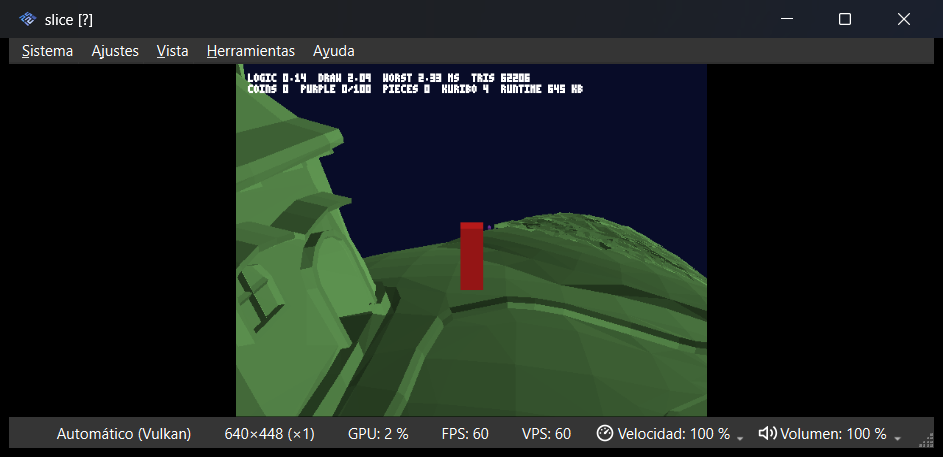
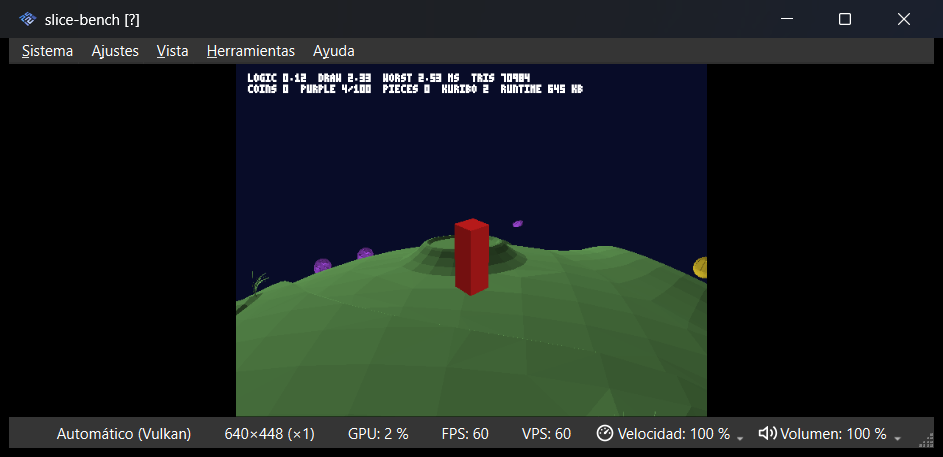
Phase 1: frame time over a scripted path in PCSX2 (bench build), gate GO (tasks 5.2, 6.1)

diff --git a/engine/src/main.c b/engine/src/main.c
@@ -14,13 +14,6 @@ extern const u8 slice_blob[];
 
 static Scene scene;
 
-/* EE COUNT register: one tick per CPU cycle (294.912 MHz). */
-static inline u32 cycles(void)
-{
-    u32 c;
-    __asm__ volatile("mfc0 %0, $9" : "=r"(c));
-    return c;
-}
 #define EE_MHZ 294.912f
 
 static void load_modules(void)
@@ -50,10 +43,16 @@ int main(void)
     game_init(&scene, slice_blob);
     mem_report();
 
-    u32 t_logic = 0, t_draw = 0, worst = 0, frame = 0;
+    u32 t_logic = 0, t_draw = 0, t_gs = 0, worst = 0, frame = 0;
+#ifdef BENCH
+    /* frames 60..1859 of the scripted path: sums and worsts of logic (minus KCL), KCL, draw, GS finish, total */
+    u64 sum[5] = {0};
+    u32 top[5] = {0};
+#endif
     char line[128], a[24], b[24], c[24];
     for (;;) {
         u32 t0 = cycles();
+        game_kcl_cycles = 0;
         pad_update();
         game_update();
         u32 t1 = cycles();
@@ -78,7 +77,24 @@ int main(void)
         if ((frame++ & 255) == 0)
             printf("frame %u: logic %u us, draw %u us, worst %u us, tris %u\n", frame, (u32)(t_logic / EE_MHZ),
                    (u32)(t_draw / EE_MHZ), (u32)(worst / EE_MHZ), render_tris_drawn());
-        render_end();
+        t_gs = render_end();
+#ifdef BENCH
+        if (frame > 60 && frame <= 1860) {
+            u32 v[5] = {t_logic - game_kcl_cycles, game_kcl_cycles, t_draw, t_gs, t_logic + t_draw + t_gs};
+            for (int i = 0; i < 5; i++) {
+                sum[i] += v[i];
+                if (v[i] > top[i]) top[i] = v[i];
+            }
+        }
+        if (frame == 1861) {
+            static const char *nm[5] = {"logic", "kcl", "draw", "gs", "total"};
+            for (int i = 0; i < 5; i++)
+                printf("bench %-5s avg %u us worst %u us\n", nm[i], (u32)(sum[i] / 1800 / EE_MHZ), (u32)(top[i] / EE_MHZ));
+            game_debug(line, sizeof line);
+            printf("bench end: %s coins %d purple %d pieces %d kuribo %d\n", line, game_coins(), game_purple(),
+                   game_starpieces(), game_kuribo_alive());
+        }
+#endif
     }
     return 0;
 }

diff --git a/engine/src/pad.c b/engine/src/pad.c
@@ -39,6 +39,18 @@ void pad_update(void)
         ly = -axis(st.ljoy_v);
     }
     pressed = held & ~prev;
+#ifdef BENCH
+    /* fixed path, 30 s: forward with a jump every 1.5 s, a right-hand circle with spins, forward-left */
+    static u32 f;
+    u32 t = f++;
+    prev = held;
+    held = 0;
+    lx = t < 600 ? 0.0f : t < 1200 ? 1.0f : -0.7f;
+    ly = t < 600 ? 1.0f : t < 1200 ? 0.5f : 0.7f;
+    if (t % 90 == 45) held |= PAD_CROSS;
+    if (t >= 600 && t < 1200 && t % 120 == 0) held |= PAD_SQUARE;
+    pressed = held & ~prev;
+#endif
 }
 
 int pad_held(u32 m) { return (held & m) != 0; }

diff --git a/engine/src/render.c b/engine/src/render.c
@@ -258,8 +258,11 @@ void render_text(float x, float y, const char *s)
     }
 }
 
-void render_end(void)
+#include "game.h"
+
+u32 render_end(void)
 {
+    u32 c0 = cycles();
     flush_vif();
     dma_channel_wait(DMA_CHANNEL_VIF1, 0);
     if (text_open) {
@@ -269,9 +272,11 @@ void render_end(void)
         draw_wait_finish();
         text_open = 0;
     }
+    u32 busy = cycles() - c0;
     graph_wait_vsync();
     graph_set_framebuffer_filtered(frame[back].address, SCREEN_W, GS_PSM_32, 0, 0);
     back ^= 1;
+    return busy;
 }
 
 u32 render_tris_drawn(void) { return tris_drawn; }

diff --git a/engine/src/render.h b/engine/src/render.h
@@ -10,7 +10,8 @@ void render_begin(const float eye[3], const float target[3], const float up[3]);
 /* Draw a model with world matrix `world` (column-major 4x4), flat-shaded with a base colour. */
 void render_model(const Model *md, const float world[16], u8 r, u8 g, u8 b);
 void render_text(float x, float y, const char *s);
-void render_end(void);
+/* Finish the frame (VIF chain, HUD, wait for the GS) and flip; returns EE cycles spent before the vsync wait. */
+u32 render_end(void);
 u32 render_tris_drawn(void);
 
 void mat_identity(float m[16]);

diff --git a/engine/src/game.c b/engine/src/game.c
@@ -128,8 +128,11 @@ static V3 up_at(V3 p, V3 prev)
 }
 
 /* Push a sphere out of the KCL; returns 1 if it rests on ground (a face within 60 degrees of up). */
+unsigned int game_kcl_cycles;
+
 static int collide(V3 *center, V3 up, float radius)
 {
+    unsigned int c0 = cycles();
     int ground = 0;
     for (int it = 0; it < 3; it++) {
         KclHit hits[16];
@@ -156,6 +159,7 @@ static int collide(V3 *center, V3 up, float radius)
                 ground = 1;
         }
     }
+    game_kcl_cycles += cycles() - c0;
     return ground;
 }
 

diff --git a/engine/src/game.h b/engine/src/game.h
@@ -13,5 +13,13 @@ int game_purple_total(void);
 int game_starpieces(void);
 int game_kuribo_alive(void);
 void game_debug(char *out, int n);
+/* EE cycles spent in KCL queries since the last reset (frame-time split) */
+extern unsigned int game_kcl_cycles;
+static inline unsigned int cycles(void)
+{
+    unsigned int c;
+    __asm__ volatile("mfc0 %0, $9" : "=r"(c));
+    return c;
+}
 
 #endif

diff --git a/docs/phase1-report.md b/docs/phase1-report.md
@@ -1,4 +1,4 @@
-# Phase 1 report (in progress)
+# Phase 1 report
 
 ## Wii reference (tasks 1.1-1.2)
 
@@ -140,23 +140,42 @@ Console at boot (`mem_report`) and HUD every frame (`RUNTIME … KB`, live coins
 Per object: PurpleCoin 16 B vs 2 567 B, Kuribo 48 B vs 12 073 B, player 1.2 KB vs 297 KB, all far under the
 one-sixth targets of 1.2. The slice does much less per object (see "Differences from SMG"), so these are floors.
 
-## Gate (task 6.1) — provisional until 5.2
+## Frame time over a fixed path (task 5.2) — PCSX2, by the user's decision
+
+`engine/build.sh bench` builds `slice-bench.elf`: the pad is replaced by a 30 s script (`pad.c`, `#ifdef BENCH`):
+forward with a jump every 1.5 s for 10 s, a right-hand circle with a spin every 2 s for 10 s, forward-left for 10 s.
+Mario crosses to the far side of the planet (1317, −425, 1574 → −510, 290, −1982), collects 4 purple coins and
+stomps 2 Kuribo (`docs/renders/slice-bench.png`). Frames 61-1860, EE COUNT cycles:
+
+| Part | Average | Worst |
+|---|---|---|
+| Logic (minus KCL) | 0.04 ms | 0.05 ms |
+| Collision (KCL queries) | 0.08 ms | 0.22 ms |
+| Draw (EE builds the VIF chain) | 2.21 ms | 2.37 ms |
+| GS finish (VIF chain + HUD drained, `render_end` before vsync) | 2.77 ms | 3.01 ms |
+| **Total busy** | **5.10 ms** | **5.51 ms** |
+
+60 FPS throughout, up to 70 984 triangles in view. PCSX2 does not time the VU1 and GS like the console, so the
+"GS finish" row is the least reliable one; the user chose the emulator over the SCPH-75001 for this gate.
+
+## Gate (task 6.1)
 
 Spec formula, OceanPhantomCave 1 (phase 0c):
 
 - **Memory** = Wii scene heap 7.81 MB × (slice 0.630 MB / Wii slice 3.24 MB = 0.194) = **1.52 MB**, against a room of
   1.45 (asset margin at R = 0.99) + 2.3 (render targets) + 2.6 (XFB + GX FIFO) = **6.35 MB → fits**. Without the
   fixed render buffers the slice ratio is 0.001 and the extrapolation ~8 KB.
-- **CPU** = slice worst frame × object ratio (Wii NameObjs 3 621 / 1 295 = 2.80): 2.34 ms → 6.5 ms, or with the slow
-  stretch 4.91 ms → **13.7 ms**, under 16.7 ms. PCSX2 numbers; the gate takes the SCPH-75001's (design, risks).
+- **CPU** = slice worst frame × object ratio (Wii NameObjs 3 621 / 1 295 = 2.80): 5.51 ms × 2.80 = **15.4 ms**, under
+  16.7 ms with 1.3 ms to spare. Scaling draw and GS time by objects is pessimistic (they follow triangles), but it is
+  the spec's rule.
 
 What the formula does not see (said plainly):
 - It scales only the scene heap. The phase 0c trace found ~8 MB of *resident* runtime (stationed C++ objects 4.34 MB,
   other data ~3.6 MB: sound, camera, layouts, effects, save). The slice has none of those systems, so nothing measures
   their PS2 cost yet; that is the real open risk of a full engine.
 - The slice is a subset: no Mario model/animation, no sound, particles, shadows, camera system, Bezier rails.
-- Render cost scales with triangles and batches, not objects; 62 k triangles at ~2 ms of EE is the measured part.
+- Frame time is from PCSX2, not the console.
 
-**Verdict: GO-pending-console.** By the spec's formula both rows fit with room (memory 1.52 of 6.35 MB, CPU
-6.5-13.7 ms of 16.7 in PCSX2). It becomes GO when 5.2 (frame time on the SCPH-75001 over a fixed path) stays
-under 16.7 ms; then 6.2 opens the full-engine plan, starting with the resident systems the slice does not have.
+**Verdict: GO** for the full engine (memory 1.52 of 6.35 MB, CPU 15.4 of 16.7 ms extrapolated, PCSX2). The CPU margin
+is thin: the full-engine plan has to keep the render path on VU1, budget the resident systems the slice lacks, and
+re-measure on the console when one is at hand.
